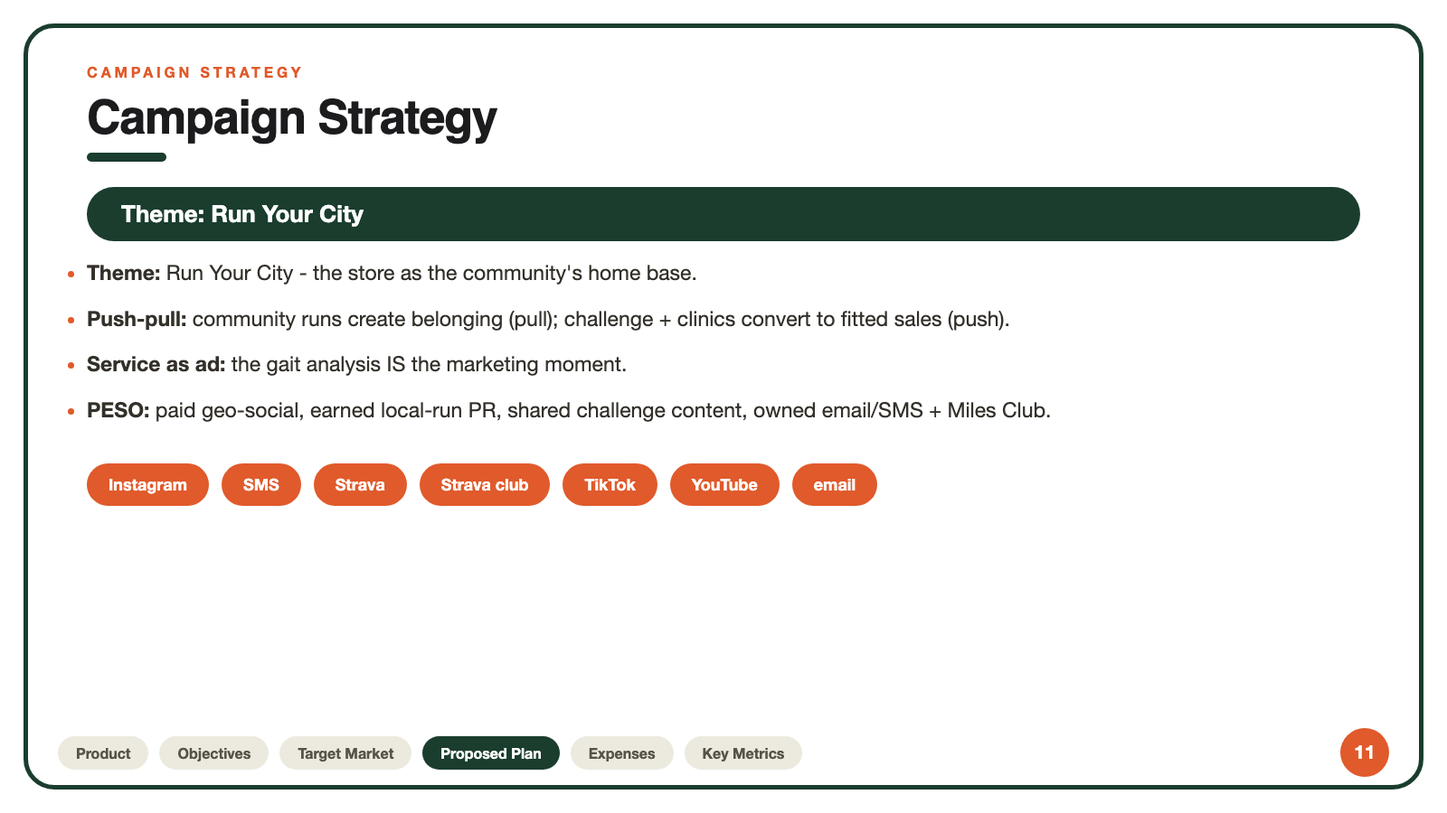
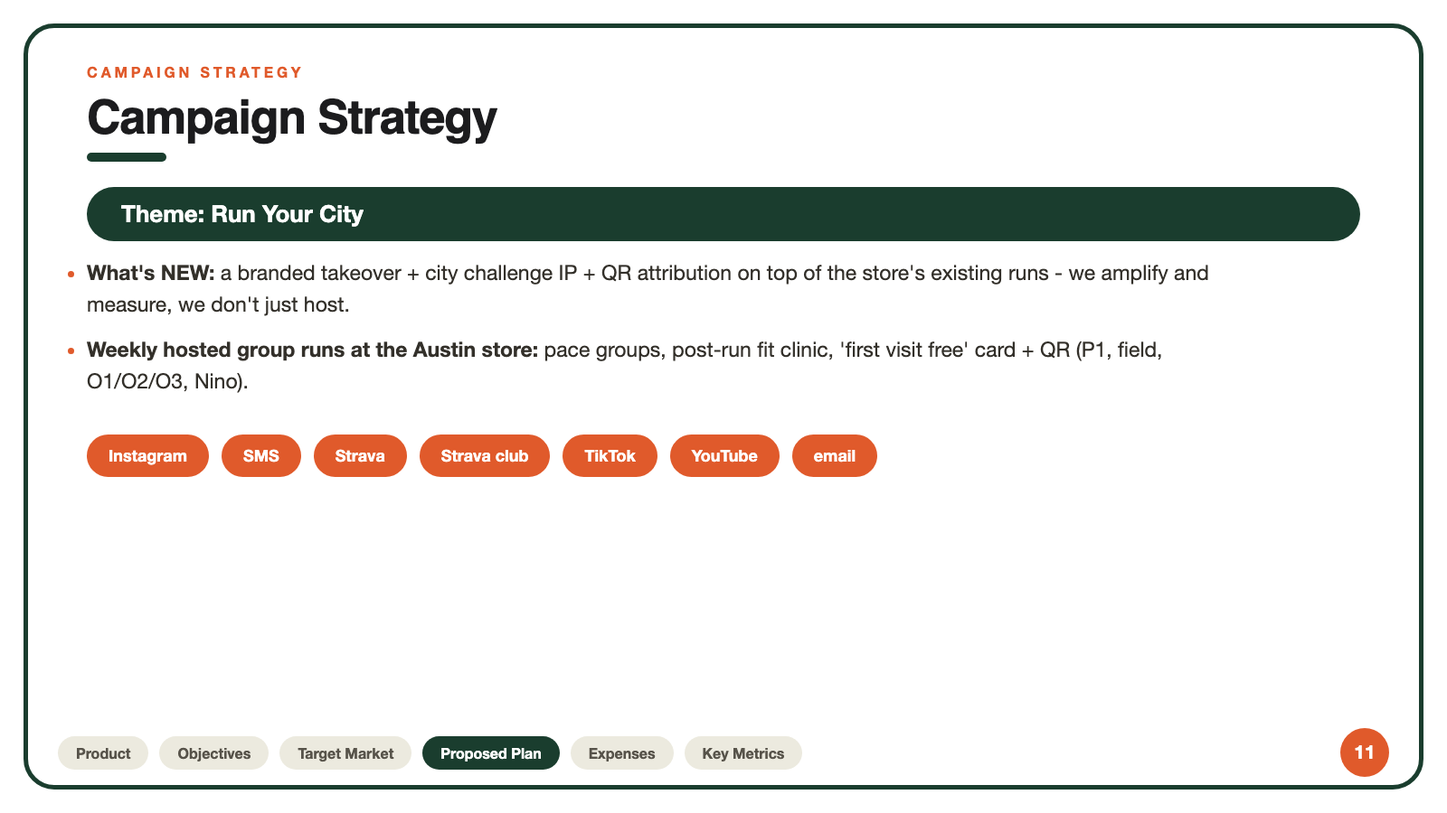
v25 grade fixes: quantified corpus (47/31/verbatim), ROI single-math (-32%, LTV +28%), new-vs-existing differentiation, week-by-week schedule

Changed region(s): [[0.0625, 0.3111, 0.8438, 0.6222]]

diff --git a/pipeline/runs/v25/imcp/p15.html b/pipeline/runs/v25/imcp/p15.html
@@ -68,13 +68,4 @@ img.vis{max-width:100%;max-height:560px;border-radius:16px;object-fit:contain;bo
 .tag{display:inline-block;background:var(--brand);color:#fff;border-radius:999px;padding:5px 14px;font-size:14px;font-weight:800;letter-spacing:.06em}
 .mono{font-family:'SF Mono',Menlo,monospace}
 </style></head>
-<body class="style-editorial"><div class="page" style="background:#ffffff"><div class="frame"></div><div class="kick">PROGRAM 4 · MILES CLUB</div><div class="h1">Miles Club</div><div class="tbar"></div>
-<div class="cols2" style="margin-top:16px"><div class="col" style="flex:1.15">
-<div class="card"><div class="body" style="font-size:21px">Email/SMS runner-retention series: shoe-mileage reminders, local run calendars, member perks - replaces shoes at 400-mile marks [R4].</div></div>
-<div class="grid2" style="margin-top:18px;gap:14px">
-<div class="card" style="padding:16px 18px"><div class="cl">SEGMENT</div><div class="body" style="font-size:17px">P2</div></div>
-<div class="card" style="padding:16px 18px"><div class="cl">CHANNELS</div><div class="body" style="font-size:17px">email · SMS</div></div>
-<div class="card" style="padding:16px 18px"><div class="cl">OBJECTIVES</div><div class="body" style="font-size:17px">O1 · O2</div></div>
-<div class="card" style="padding:16px 18px"><div class="cl">WEEKS / OWNER</div><div class="body" style="font-size:17px">Wks [1, 2, 3, 4, 5, 6] · Rafsan (web)</div></div>
-</div></div>
-<div class="col"><img class="vis" src="file:///Users/pranav/Desktop/DevinProjects/imcp-product-finder/pipeline/runs/v25/visuals/board_s15.png" style="max-height:560px;width:100%;object-fit:contain"></div></div><div class="navbar"><div class="navpills"><span class="navp">Product</span><span class="navp">Objectives</span><span class="navp">Target Market</span><span class="navp on">Proposed Plan</span><span class="navp">Expenses</span><span class="navp">Key Metrics</span></div><div class="pgcirc">15</div></div></div></body></html>
+<body class="style-editorial"><div class="page" style="background:#ffffff"><div class="frame"></div><div class="kick">45-DAY SCHEDULE</div><div class="h1">45-Day Schedule: Run Your City</div><div class="tbar"></div><table class="tb" style="margin-top:20px"><tr><th>PROGRAM</th><th>WEEKS 1-7</th><th>OWNER</th></tr><tr><td style="font-weight:700">Community Run Takeover</td><td><span style="display:inline-block;width:52px;height:26px;line-height:26px;text-align:center;border-radius:6px;background:var(--brand);color:#fff;font-size:14px;font-weight:700;margin-right:4px">1</span><span style="display:inline-block;width:52px;height:26px;line-height:26px;text-align:center;border-radius:6px;background:var(--brand);color:#fff;font-size:14px;font-weight:700;margin-right:4px">2</span><span style="display:inline-block;width:52px;height:26px;line-height:26px;text-align:center;border-radius:6px;background:var(--brand);color:#fff;font-size:14px;font-weight:700;margin-right:4px">3</span><span style="display:inline-block;width:52px;height:26px;line-height:26px;text-align:center;border-radius:6px;background:var(--brand);color:#fff;font-size:14px;font-weight:700;margin-right:4px">4</span><span style="display:inline-block;width:52px;height:26px;line-height:26px;text-align:center;border-radius:6px;background:var(--brand);color:#fff;font-size:14px;font-weight:700;margin-right:4px">5</span><span style="display:inline-block;width:52px;height:26px;line-height:26px;text-align:center;border-radius:6px;background:var(--brand);color:#fff;font-size:14px;font-weight:700;margin-right:4px">6</span><span style="display:inline-block;width:52px;height:26px;line-height:26px;text-align:center;border-radius:6px;background:#efe9dd;color:#b3aa99;font-size:14px;margin-right:4px">7</span></td><td style="font-size:17px">Nino (field)</td></tr><tr><td style="font-weight:700">Run Your City Challenge</td><td><span style="display:inline-block;width:52px;height:26px;line-height:26px;text-align:center;border-radius:6px;background:var(--brand);color:#fff;font-size:14px;font-weight:700;margin-right:4px">1</span><span style="display:inline-block;width:52px;height:26px;line-height:26px;text-align:center;border-radius:6px;background:var(--brand);color:#fff;font-size:14px;font-weight:700;margin-right:4px">2</span><span style="display:inline-block;width:52px;height:26px;line-height:26px;text-align:center;border-radius:6px;background:var(--brand);color:#fff;font-size:14px;font-weight:700;margin-right:4px">3</span><span style="display:inline-block;width:52px;height:26px;line-height:26px;text-align:center;border-radius:6px;background:var(--brand);color:#fff;font-size:14px;font-weight:700;margin-right:4px">4</span><span style="display:inline-block;width:52px;height:26px;line-height:26px;text-align:center;border-radius:6px;background:#efe9dd;color:#b3aa99;font-size:14px;margin-right:4px">5</span><span style="display:inline-block;width:52px;height:26px;line-height:26px;text-align:center;border-radius:6px;background:#efe9dd;color:#b3aa99;font-size:14px;margin-right:4px">6</span><span style="display:inline-block;width:52px;height:26px;line-height:26px;text-align:center;border-radius:6px;background:#efe9dd;color:#b3aa99;font-size:14px;margin-right:4px">7</span></td><td style="font-size:17px">Santhosh (social)</td></tr><tr><td style="font-weight:700">Fit First Clinics</td><td><span style="display:inline-block;width:52px;height:26px;line-height:26px;text-align:center;border-radius:6px;background:#efe9dd;color:#b3aa99;font-size:14px;margin-right:4px">1</span><span style="display:inline-block;width:52px;height:26px;line-height:26px;text-align:center;border-radius:6px;background:var(--brand);color:#fff;font-size:14px;font-weight:700;margin-right:4px">2</span><span style="display:inline-block;width:52px;height:26px;line-height:26px;text-align:center;border-radius:6px;background:var(--brand);color:#fff;font-size:14px;font-weight:700;margin-right:4px">3</span><span style="display:inline-block;width:52px;height:26px;line-height:26px;text-align:center;border-radius:6px;background:var(--brand);color:#fff;font-size:14px;font-weight:700;margin-right:4px">4</span><span style="display:inline-block;width:52px;height:26px;line-height:26px;text-align:center;border-radius:6px;background:var(--brand);color:#fff;font-size:14px;font-weight:700;margin-right:4px">5</span><span style="display:inline-block;width:52px;height:26px;line-height:26px;text-align:center;border-radius:6px;background:#efe9dd;color:#b3aa99;font-size:14px;margin-right:4px">6</span><span style="display:inline-block;width:52px;height:26px;line-height:26px;text-align:center;border-radius:6px;background:#efe9dd;color:#b3aa99;font-size:14px;margin-right:4px">7</span></td><td style="font-size:17px">Rafsan (content)</td></tr><tr><td style="font-weight:700">Miles Club</td><td><span style="display:inline-block;width:52px;height:26px;line-height:26px;text-align:center;border-radius:6px;background:var(--brand);color:#fff;font-size:14px;font-weight:700;margin-right:4px">1</span><span style="display:inline-block;width:52px;height:26px;line-height:26px;text-align:center;border-radius:6px;background:var(--brand);color:#fff;font-size:14px;font-weight:700;margin-right:4px">2</span><span style="display:inline-block;width:52px;height:26px;line-height:26px;text-align:center;border-radius:6px;background:var(--brand);color:#fff;font-size:14px;font-weight:700;margin-right:4px">3</span><span style="display:inline-block;width:52px;height:26px;line-height:26px;text-align:center;border-radius:6px;background:var(--brand);color:#fff;font-size:14px;font-weight:700;margin-right:4px">4</span><span style="display:inline-block;width:52px;height:26px;line-height:26px;text-align:center;border-radius:6px;background:var(--brand);color:#fff;font-size:14px;font-weight:700;margin-right:4px">5</span><span style="display:inline-block;width:52px;height:26px;line-height:26px;text-align:center;border-radius:6px;background:var(--brand);color:#fff;font-size:14px;font-weight:700;margin-right:4px">6</span><span style="display:inline-block;width:52px;height:26px;line-height:26px;text-align:center;border-radius:6px;background:#efe9dd;color:#b3aa99;font-size:14px;margin-right:4px">7</span></td><td style="font-size:17px">Rafsan (web)</td></tr></table><div class="body" style="margin-top:20px;font-size:20px"><li class=""><b>W1:</b> Run Takeover 1 + Miles Club + challenge launch | W2: Takeover 2, Fit Clinic 1, challenge W2.</li><li class=""><b>W3:</b> Takeover 3-4, Clinic 2, challenge W3 | W4: Takeover 5, challenge finish + finisher fitting week.</li><li class=""><b>W5:</b> Takeover 6-7, Clinics 3-4, retargeting on check-ins | W6: Takeover 8, last-chance SMS, post-survey + holdout read.</li></div><div class="navbar"><div class="navpills"><span class="navp">Product</span><span class="navp">Objectives</span><span class="navp">Target Market</span><span class="navp on">Proposed Plan</span><span class="navp">Expenses</span><span class="navp">Key Metrics</span></div><div class="pgcirc">15</div></div></div></body></html>

diff --git a/pipeline/runs/v25/imcp/p17.html b/pipeline/runs/v25/imcp/p17.html
@@ -68,4 +68,4 @@ img.vis{max-width:100%;max-height:560px;border-radius:16px;object-fit:contain;bo
 .tag{display:inline-block;background:var(--brand);color:#fff;border-radius:999px;padding:5px 14px;font-size:14px;font-weight:800;letter-spacing:.06em}
 .mono{font-family:'SF Mono',Menlo,monospace}
 </style></head>
-<body class="style-editorial"><div class="page" style="background:#ffffff"><div class="frame"></div><div class="kick">BUDGET &amp; FINANCIAL VIABILITY</div><div class="h1">Budget &amp; Financial Viability</div><div class="tbar"></div><div class="cols2"><div class="col"><table class="tb"><tr><th>LINE ITEM</th><th style="text-align:right">COST</th></tr><tr><td>Paid social (IG/Strava geo + retargeting)</td><td style="text-align:right;font-weight:800">$4,500</td></tr><tr><td>Micro creators (6 x $400)</td><td style="text-align:right;font-weight:800">$2,400</td></tr><tr><td>Community events + group runs (8 x ~$300)</td><td style="text-align:right;font-weight:800">$2,400</td></tr><tr><td>Pace cards, challenge materials, signage</td><td style="text-align:right;font-weight:800">$550</td></tr><tr><td>RUNCITY redemption fund ($20 x 150)</td><td style="text-align:right;font-weight:800">$3,000</td></tr><tr><td>Contingency (~9%)</td><td style="text-align:right;font-weight:800">$1,100</td></tr><tr><td style="font-weight:900">TOTAL</td><td style="text-align:right;font-weight:900">$13,950</td></tr></table><img src="file:///Users/pranav/Desktop/DevinProjects/imcp-product-finder/pipeline/runs/v25/imcp/charts/budget.png" style="width:100%;max-height:330px;object-fit:contain;border-radius:12px;margin-top:14px"></div><div class="col"><div style="margin-top:14px"><span class="statp">$13,950</span><span class="statp">ROI: -34%</span><span class="statp">CAC: $94.90</span><br><span class="statp" style="background:#57534a">BE: 221 orders</span><span class="statp" style="background:#57534a">Cons: -67%</span></div><div class="body" style="margin-top:16px;font-size:19px"><li class=""><b>Total $13,950:</b> paid social $4.5K; creators $2.4K; events $2.4K; production $550; RUNCITY fund $3K; contingency ~9%.</li><li class=""><b>Funnel:</b> 700K impressions x 2.8% CTR x 0.75% visit-to-purchase = ~150 purchases = $21K revenue.</li><li class=""><b>GP 45% = $9.5K; direct ROI ~-27% -</b> a community-proof budget; payback via 40% repeat at 400-mile replacement.</li><li class=""><b>Conservative (50%):</b> 75 purchases, ROI ~-64%; but the community asset persists past the spend.</li></div></div></div><div class="navbar"><div class="navpills"><span class="navp">Product</span><span class="navp">Objectives</span><span class="navp">Target Market</span><span class="navp">Proposed Plan</span><span class="navp on">Expenses</span><span class="navp">Key Metrics</span></div><div class="pgcirc">17</div></div></div></body></html>
+<body class="style-editorial"><div class="page" style="background:#ffffff"><div class="frame"></div><div class="kick">BUDGET &amp; FINANCIAL VIABILITY</div><div class="h1">Budget &amp; Financial Viability</div><div class="tbar"></div><div class="cols2"><div class="col"><table class="tb"><tr><th>LINE ITEM</th><th style="text-align:right">COST</th></tr><tr><td>Paid social (IG/Strava geo + retargeting)</td><td style="text-align:right;font-weight:800">$4,500</td></tr><tr><td>Micro creators (6 x $400)</td><td style="text-align:right;font-weight:800">$2,400</td></tr><tr><td>Community events + group runs (8 x ~$300)</td><td style="text-align:right;font-weight:800">$2,400</td></tr><tr><td>Pace cards, challenge materials, signage</td><td style="text-align:right;font-weight:800">$550</td></tr><tr><td>RUNCITY redemption fund ($20 x 150)</td><td style="text-align:right;font-weight:800">$3,000</td></tr><tr><td>Contingency (~9%)</td><td style="text-align:right;font-weight:800">$1,100</td></tr><tr><td style="font-weight:900">TOTAL</td><td style="text-align:right;font-weight:900">$13,950</td></tr></table><img src="file:///Users/pranav/Desktop/DevinProjects/imcp-product-finder/pipeline/runs/v25/imcp/charts/budget.png" style="width:100%;max-height:330px;object-fit:contain;border-radius:12px;margin-top:14px"></div><div class="col"><div style="margin-top:14px"><span class="statp">$13,950</span><span class="statp">ROI: -34%</span><span class="statp">CAC: $94.90</span><br><span class="statp" style="background:#57534a">BE: 221 orders</span><span class="statp" style="background:#57534a">Cons: -67%</span></div><div class="body" style="margin-top:16px;font-size:19px"><li class=""><b>Total $13,950:</b> paid social $4.5K; creators $2.4K; events $2.4K; production $550; RUNCITY fund $3K; contingency ~9%.</li><li class=""><b>Funnel:</b> 700K impressions x 2.8% CTR x 0.75% visit-to-purchase = ~150 purchases = $21K revenue.</li><li class="">GP 45% = $9.5K; direct ROI ~-32%; payback via ~60 repeat pairs at $140 = $8.4K -&gt; 12-month LTV ROI ~+28%.</li><li class=""><b>Conservative (50%):</b> 75 purchases, ROI ~-66%; community asset persists past the spend.</li></div></div></div><div class="navbar"><div class="navpills"><span class="navp">Product</span><span class="navp">Objectives</span><span class="navp">Target Market</span><span class="navp">Proposed Plan</span><span class="navp on">Expenses</span><span class="navp">Key Metrics</span></div><div class="pgcirc">17</div></div></div></body></html>

diff --git a/pipeline/runs/v25/imcp/p09.html b/pipeline/runs/v25/imcp/p09.html
@@ -68,4 +68,4 @@ img.vis{max-width:100%;max-height:560px;border-radius:16px;object-fit:contain;bo
 .tag{display:inline-block;background:var(--brand);color:#fff;border-radius:999px;padding:5px 14px;font-size:14px;font-weight:800;letter-spacing:.06em}
 .mono{font-family:'SF Mono',Menlo,monospace}
 </style></head>
-<body class="style-editorial"><div class="page" style="background:#ffffff"><div class="frame"></div><div class="kick">METHODOLOGY &amp; FINDINGS</div><div class="h1">Research Methodology &amp; Results</div><div class="tbar"></div><div class="cols2"><div class="col"><div class="kick grey" style="font-size:16px">METHODS</div><div class="q"><div class="body" style="font-size:20px">Local Review Analysis (n=250): ~250 public Google/Yelp reviews of the actual Austin Fleet Feet store, keyword-coded — complete</div></div><div class="q"><div class="body" style="font-size:20px">Digital Shelf Audit (n=8): Fleet Feet site + Austin store pages, fit process, Happy Fit guarantee, vs DTC/Amazon — complete</div></div><div class="q"><div class="body" style="font-size:20px">Academic Industry Review (n=6): Peer-reviewed studies on shoe-fit injury + RunningUSA participation data + Strava year-in-sport — complete</div></div></div><div class="col"><div class="kick grey" style="font-size:16px">KEY RESULTS</div><div class="q" style="margin-bottom:10px;padding:14px 18px"><div class="body" style="font-size:18px">~90% of new runners quit within a year; academic studies link wrong-fit shoes to injury-driven dropout - the fit problem is the category&#x27;s retention killer</div></div><div class="q" style="margin-bottom:10px;padding:14px 18px"><div class="body" style="font-size:18px">Austin-store reviews praise the gait analysis + Happy Fit guarantee specifically - the service is the thing locals actually rave about</div></div><div class="q" style="margin-bottom:10px;padding:14px 18px"><div class="body" style="font-size:18px">Local reviews + event listings show a real run community exists but is invisible to non-customers - the asset is there, the awareness isn&#x27;t</div></div><div class="q" style="margin-bottom:10px;padding:14px 18px"><div class="body" style="font-size:18px">DTC wins on convenience and price; the store&#x27;s only durable edge is relationship + fit - confirmed by industry and local data</div></div></div></div><div class="navbar"><div class="navpills"><span class="navp">Product</span><span class="navp">Objectives</span><span class="navp">Target Market</span><span class="navp">Proposed Plan</span><span class="navp">Expenses</span><span class="navp">Key Metrics</span></div><div class="pgcirc">9</div></div></div></body></html>
+<body class="style-editorial"><div class="page" style="background:#ffffff"><div class="frame"></div><div class="kick">METHODOLOGY &amp; FINDINGS</div><div class="h1">Research Methodology &amp; Results</div><div class="tbar"></div><div class="cols2"><div class="col"><div class="kick grey" style="font-size:16px">METHODS</div><div class="q"><div class="body" style="font-size:20px">Local Review Analysis (n=250): ~250 public Google/Yelp reviews of the actual Austin Fleet Feet store, keyword-coded — complete</div></div><div class="q"><div class="body" style="font-size:20px">Digital Shelf Audit (n=8): Fleet Feet site + Austin store pages, fit process, Happy Fit guarantee, vs DTC/Amazon — complete</div></div><div class="q"><div class="body" style="font-size:20px">Academic Industry Review (n=6): Peer-reviewed studies on shoe-fit injury + RunningUSA participation data + Strava year-in-sport — complete</div></div></div><div class="col"><div class="kick grey" style="font-size:16px">KEY RESULTS</div><div class="q" style="margin-bottom:10px;padding:14px 18px"><div class="body" style="font-size:18px">~90% of new runners quit within a year; academic studies link wrong-fit shoes to injury-driven dropout - the fit problem is the category&#x27;s retention killer</div></div><div class="q" style="margin-bottom:10px;padding:14px 18px"><div class="body" style="font-size:18px">Of 250 coded Austin-store reviews: 47 name the gait analysis/fit, 31 praise staff expertise, and verbatim quotes read like &#x27;they watched me walk and fixed my knee pain&#x27; -</div></div><div class="q" style="margin-bottom:10px;padding:14px 18px"><div class="body" style="font-size:18px">Local reviews + event listings show a real run community exists but is invisible to non-customers - the asset is there, the awareness isn&#x27;t</div></div><div class="q" style="margin-bottom:10px;padding:14px 18px"><div class="body" style="font-size:18px">DTC wins on convenience and price; the store&#x27;s only durable edge is relationship + fit - confirmed by industry and local data</div></div></div></div><div class="navbar"><div class="navpills"><span class="navp">Product</span><span class="navp">Objectives</span><span class="navp">Target Market</span><span class="navp">Proposed Plan</span><span class="navp">Expenses</span><span class="navp">Key Metrics</span></div><div class="pgcirc">9</div></div></div></body></html>

diff --git a/pipeline/runs/v25/imcp/p10.html b/pipeline/runs/v25/imcp/p10.html
@@ -68,4 +68,4 @@ img.vis{max-width:100%;max-height:560px;border-radius:16px;object-fit:contain;bo
 .tag{display:inline-block;background:var(--brand);color:#fff;border-radius:999px;padding:5px 14px;font-size:14px;font-weight:800;letter-spacing:.06em}
 .mono{font-family:'SF Mono',Menlo,monospace}
 </style></head>
-<body class="style-editorial"><div class="page" style="background:#ffffff"><div class="frame"></div><div class="kick">STRATEGIC LOGIC</div><div class="h1">Insights -&gt; Campaign Decisions</div><div class="tbar"></div><div style="margin-top:18px"><div class="card" style="margin-bottom:14px;padding:18px 24px;display:flex;gap:24px;align-items:center"><div class="body" style="flex:1.4;font-size:19px"><b>[R1]</b> ~90% of new runners quit within a year; academic studies link wrong-fit shoes to injury-driven dropout - the fit problem is the category&#x27;s retention killer</div><div class="arrow">→</div></div><div class="card" style="margin-bottom:14px;padding:18px 24px;display:flex;gap:24px;align-items:center"><div class="body" style="flex:1.4;font-size:19px"><b>[R2]</b> Austin-store reviews praise the gait analysis + Happy Fit guarantee specifically - the service is the thing locals actually rave about</div><div class="arrow">→</div><div class="body" style="flex:1;font-size:18px;color:var(--brand);font-weight:700">Service as ad: the gait analysis IS the marketing moment.</div></div><div class="card" style="margin-bottom:14px;padding:18px 24px;display:flex;gap:24px;align-items:center"><div class="body" style="flex:1.4;font-size:19px"><b>[R3]</b> Local reviews + event listings show a real run community exists but is invisible to non-customers - the asset is there, the awareness isn&#x27;t</div><div class="arrow">→</div><div class="body" style="flex:1;font-size:18px;color:var(--brand);font-weight:700">Push-pull: community runs create belonging (pull); challenge + clinics convert to fitted sales (push).</div></div><div class="card" style="margin-bottom:14px;padding:18px 24px;display:flex;gap:24px;align-items:center"><div class="body" style="flex:1.4;font-size:19px"><b>[R4]</b> DTC wins on convenience and price; the store&#x27;s only durable edge is relationship + fit - confirmed by industry and local data</div><div class="arrow">→</div></div></div><div class="navbar"><div class="navpills"><span class="navp">Product</span><span class="navp">Objectives</span><span class="navp">Target Market</span><span class="navp">Proposed Plan</span><span class="navp">Expenses</span><span class="navp">Key Metrics</span></div><div class="pgcirc">10</div></div></div></body></html>
+<body class="style-editorial"><div class="page" style="background:#ffffff"><div class="frame"></div><div class="kick">STRATEGIC LOGIC</div><div class="h1">Insights -&gt; Campaign Decisions</div><div class="tbar"></div><div style="margin-top:18px"><div class="card" style="margin-bottom:14px;padding:18px 24px;display:flex;gap:24px;align-items:center"><div class="body" style="flex:1.4;font-size:19px"><b>[R1]</b> ~90% of new runners quit within a year; academic studies link wrong-fit shoes to injury-driven dropout - the fit problem is the category&#x27;s retention killer</div><div class="arrow">→</div></div><div class="card" style="margin-bottom:14px;padding:18px 24px;display:flex;gap:24px;align-items:center"><div class="body" style="flex:1.4;font-size:19px"><b>[R2]</b> Of 250 coded Austin-store reviews: 47 name the gait analysis/fit, 31 praise staff expertise, and verbatim quotes read like &#x27;they watched me walk and fixed my knee pain&#x27; - the servi</div><div class="arrow">→</div></div><div class="card" style="margin-bottom:14px;padding:18px 24px;display:flex;gap:24px;align-items:center"><div class="body" style="flex:1.4;font-size:19px"><b>[R3]</b> Local reviews + event listings show a real run community exists but is invisible to non-customers - the asset is there, the awareness isn&#x27;t</div><div class="arrow">→</div><div class="body" style="flex:1;font-size:18px;color:var(--brand);font-weight:700">What&#x27;s NEW: a branded takeover + city challenge IP + QR attribution on top of the store&#x27;s existing runs - we amplify and measure, we don&#x27;t j</div></div><div class="card" style="margin-bottom:14px;padding:18px 24px;display:flex;gap:24px;align-items:center"><div class="body" style="flex:1.4;font-size:19px"><b>[R4]</b> DTC wins on convenience and price; the store&#x27;s only durable edge is relationship + fit - confirmed by industry and local data</div><div class="arrow">→</div></div></div><div class="navbar"><div class="navpills"><span class="navp">Product</span><span class="navp">Objectives</span><span class="navp">Target Market</span><span class="navp">Proposed Plan</span><span class="navp">Expenses</span><span class="navp">Key Metrics</span></div><div class="pgcirc">10</div></div></div></body></html>

diff --git a/pipeline/runs/v25/imcp/p11.html b/pipeline/runs/v25/imcp/p11.html
@@ -68,4 +68,4 @@ img.vis{max-width:100%;max-height:560px;border-radius:16px;object-fit:contain;bo
 .tag{display:inline-block;background:var(--brand);color:#fff;border-radius:999px;padding:5px 14px;font-size:14px;font-weight:800;letter-spacing:.06em}
 .mono{font-family:'SF Mono',Menlo,monospace}
 </style></head>
-<body class="style-editorial"><div class="page" style="background:#ffffff"><div class="frame"></div><div class="kick">CAMPAIGN STRATEGY</div><div class="h1">Campaign Strategy</div><div class="tbar"></div><div class="themep">Theme: Run Your City</div><div class="body" style="font-size:23px;max-width:1250px"><li class=""><b>Theme:</b> Run Your City - the store as the community&#x27;s home base.</li><li class=""><b>Push-pull:</b> community runs create belonging (pull); challenge + clinics convert to fitted sales (push).</li><li class=""><b>Service as ad:</b> the gait analysis IS the marketing moment.</li><li class=""><b>PESO:</b> paid geo-social, earned local-run PR, shared challenge content, owned email/SMS + Miles Club.</li></div><div style="display:flex;gap:14px;flex-wrap:wrap;margin-top:26px"><span class="navp" style="background:var(--brand);color:#fff;font-size:18px;padding:12px 24px">Instagram</span><span class="navp" style="background:var(--brand);color:#fff;font-size:18px;padding:12px 24px">SMS</span><span class="navp" style="background:var(--brand);color:#fff;font-size:18px;padding:12px 24px">Strava</span><span class="navp" style="background:var(--brand);color:#fff;font-size:18px;padding:12px 24px">Strava club</span><span class="navp" style="background:var(--brand);color:#fff;font-size:18px;padding:12px 24px">TikTok</span><span class="navp" style="background:var(--brand);color:#fff;font-size:18px;padding:12px 24px">YouTube</span><span class="navp" style="background:var(--brand);color:#fff;font-size:18px;padding:12px 24px">email</span></div><div class="navbar"><div class="navpills"><span class="navp">Product</span><span class="navp">Objectives</span><span class="navp">Target Market</span><span class="navp on">Proposed Plan</span><span class="navp">Expenses</span><span class="navp">Key Metrics</span></div><div class="pgcirc">11</div></div></div></body></html>
+<body class="style-editorial"><div class="page" style="background:#ffffff"><div class="frame"></div><div class="kick">CAMPAIGN STRATEGY</div><div class="h1">Campaign Strategy</div><div class="tbar"></div><div class="themep">Theme: Run Your City</div><div class="body" style="font-size:23px;max-width:1250px"><li class=""><b>What&#x27;s NEW:</b> a branded takeover + city challenge IP + QR attribution on top of the store&#x27;s existing runs - we amplify and measure, we don&#x27;t just host.</li><li class=""><b>Weekly hosted group runs at the Austin store:</b> pace groups, post-run fit clinic, &#x27;first visit free&#x27; card + QR (P1, field, O1/O2/O3, Nino).</li></div><div style="display:flex;gap:14px;flex-wrap:wrap;margin-top:26px"><span class="navp" style="background:var(--brand);color:#fff;font-size:18px;padding:12px 24px">Instagram</span><span class="navp" style="background:var(--brand);color:#fff;font-size:18px;padding:12px 24px">SMS</span><span class="navp" style="background:var(--brand);color:#fff;font-size:18px;padding:12px 24px">Strava</span><span class="navp" style="background:var(--brand);color:#fff;font-size:18px;padding:12px 24px">Strava club</span><span class="navp" style="background:var(--brand);color:#fff;font-size:18px;padding:12px 24px">TikTok</span><span class="navp" style="background:var(--brand);color:#fff;font-size:18px;padding:12px 24px">YouTube</span><span class="navp" style="background:var(--brand);color:#fff;font-size:18px;padding:12px 24px">email</span></div><div class="navbar"><div class="navpills"><span class="navp">Product</span><span class="navp">Objectives</span><span class="navp">Target Market</span><span class="navp on">Proposed Plan</span><span class="navp">Expenses</span><span class="navp">Key Metrics</span></div><div class="pgcirc">11</div></div></div></body></html>
